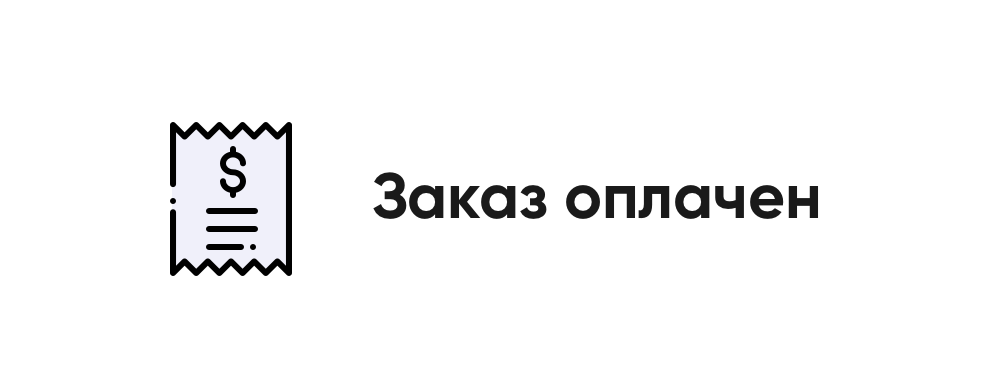
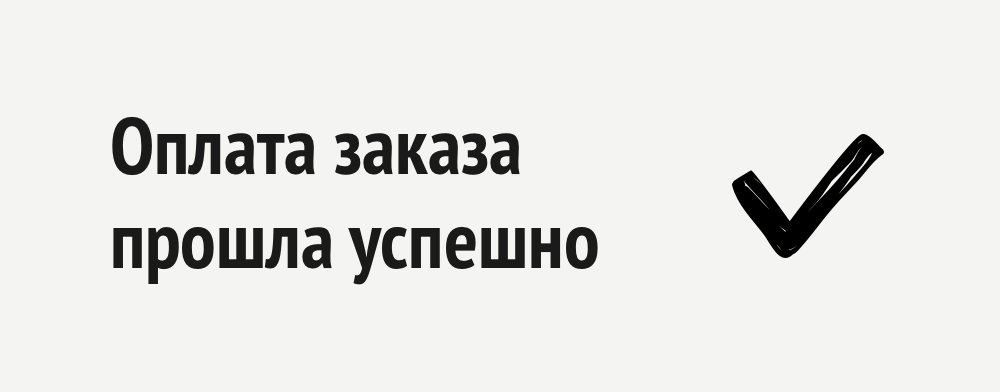
v 1.0

Changed region(s): [[0.093, 0.2755, 0.899, 0.7347]]

diff --git a/tg_bot/management/commands/bot.py b/tg_bot/management/commands/bot.py
@@ -494,6 +494,10 @@ def new_callback_query(update: Updater, context: CallbackContext):
 			update.callback_query.answer('Что-то пошло не так...')
 			return
 
+	elif data == 'BALANCE':
+		context.user_data['state'] = State.BALANCE
+		show_state(update.callback_query, context)
+
 	update.callback_query.answer()
 
 
@@ -847,7 +851,7 @@ def notify_freelancers_by_keywords(order_id):
 					freelancer.external_id,
 					f'📚 <b>{order.subject}, {order.type.lower()}</b>\n\n'
 					f'{order.description}',
-					'new_order.png',
+					'new_order_by_keywords.png',
 					None,
 					[[InlineKeyboardButton(f'Подробнее', callback_data='VIEW_ORDER:'+str(order.id))]]
 				)
@@ -1085,7 +1089,7 @@ def send_message_to_chat(context, from_chat_id, to_chat_id, related_to, text, do
 	if related_to == -1:
 		if str(from_chat_id) == settings.ADMIN_CHAT_ID:
 			# Send notification to user
-			notify_user(context.bot, to_chat_id, '', 'new_support_message.png', None,
+			notify_user(context.bot, to_chat_id, '', 'message_from_support.png', None,
 						[[InlineKeyboardButton(f'Открыть', callback_data='SUPPORT_CHAT')]])
 		else:
 			# Send notification to admin
@@ -1101,7 +1105,10 @@ def send_message_to_chat(context, from_chat_id, to_chat_id, related_to, text, do
 					text=message_text,
 					parse_mode='HTML')
 	else:
-		notify_user(context.bot, to_chat_id, '', 'new_order_message.png', None,
+		order = Order.objects.get(id=related_to)
+		img = 'message_from_customer.png' if user_to == order.freelancer else 'message_from_freelancer.png'
+
+		notify_user(context.bot, to_chat_id, '', img, None,
 					[[InlineKeyboardButton(f'Открыть', callback_data='ORDER_CHAT:' + str(related_to))]])
 
 
@@ -1187,7 +1194,7 @@ def send_order_feedback(context):
 	notify_user(
 		context.bot,
 		order.customer.external_id,
-		'', 'new_order_feedback.png', None,
+		'', 'new_feedback.png', None,
 		[[InlineKeyboardButton(f'Подробнее', callback_data='VIEW_ORDER:' + str(order.id))]]
 	)
 
@@ -1221,6 +1228,15 @@ def confirm_order_finishing(context):
 	order.status = 'done'
 	order.rate = context.user_data['order_rating']
 	order.save()
+
+	notify_user(
+		context.bot,
+		freelancer.external_id,
+		'',
+		'order_completed.png',
+		None,
+		[[InlineKeyboardButton(f'Открыть баланс', callback_data='BALANCE')]]
+	)
 
 	context.user_data['order_rating'] = None
 

diff --git a/tg_bot/views.py b/tg_bot/views.py
@@ -80,7 +80,7 @@ class MoneyOutRequestConfirmation(FormView, LoginRequiredMixin):
 			base_url=getattr(settings, 'PROXY_URL', None),
 		)
 
-		notify_user(bot, chat_id, '', 'money_out_success.png', None)
+		notify_user(bot, chat_id, '', 'withdraw_success.png', None)
 		return super(MoneyOutRequestConfirmation, self).form_valid(form)
 
 	def form_invalid(self, form):
@@ -143,7 +143,7 @@ class MessageFromSupport(FormView, LoginRequiredMixin):
 			base_url=getattr(settings, 'PROXY_URL', None),
 		)
 
-		notify_user(bot, user_id, '', 'new_support_message.png', None,
+		notify_user(bot, user_id, '', 'message_from_support.png', None,
 					[[InlineKeyboardButton(f'Открыть', callback_data='SUPPORT_CHAT')]])
 
 		return super(MessageFromSupport, self).form_valid(form)
@@ -192,7 +192,7 @@ class LeaveOrderFeedback(FormView, LoginRequiredMixin):
 			bot,
 			customer.external_id,
 			'',
-			'new_order_feedback.png',
+			'new_feedback.png',
 			None,
 			[[InlineKeyboardButton(f'Подробнее', callback_data='VIEW_ORDER:' + str(order.id))]]
 		)
@@ -265,6 +265,14 @@ class PaymentSuccess(View):
 					order.customer.external_id,
 					'',
 					'order_paid.png',
+					None,
+					[[InlineKeyboardButton(f'Открыть заказ', callback_data=f'VIEW_ORDER: {order.id}')]]
+				)
+				notify_user(
+					bot,
+					order.freelancer.external_id,
+					'',
+					'feedback_approved.png',
 					None,
 					[[InlineKeyboardButton(f'Открыть заказ', callback_data=f'VIEW_ORDER: {order.id}')]]
 				)

diff --git a/botan_bot/settings.py b/botan_bot/settings.py
@@ -132,7 +132,7 @@ STATICFILES_STORAGE = 'whitenoise.storage.CompressedManifestStaticFilesStorage'
 
 # Bot's settings
 
-# TOKEN = '999942955:AAGAerfUIErb6lNprU1CI1DNTRN7r14m9aM'
+#TOKEN = '999942955:AAGAerfUIErb6lNprU1CI1DNTRN7r14m9aM'
 TOKEN = '1004328512:AAFcQFXiXx5CJlNhEAq2Rf4oD62Uvr7bba0'
 
 # ADMIN_TOKEN = '1115613313:AAFep1i_jhBu6KrvxQrcY_v6uTg4IXgd6fw'
